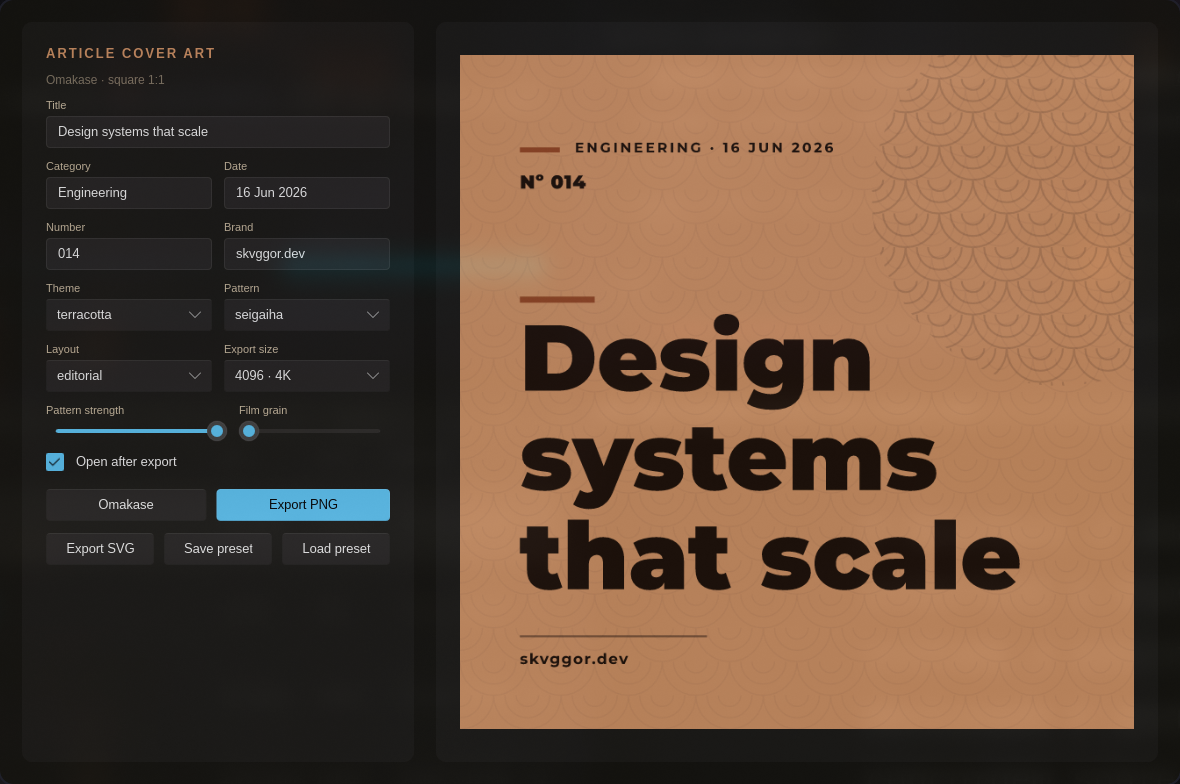
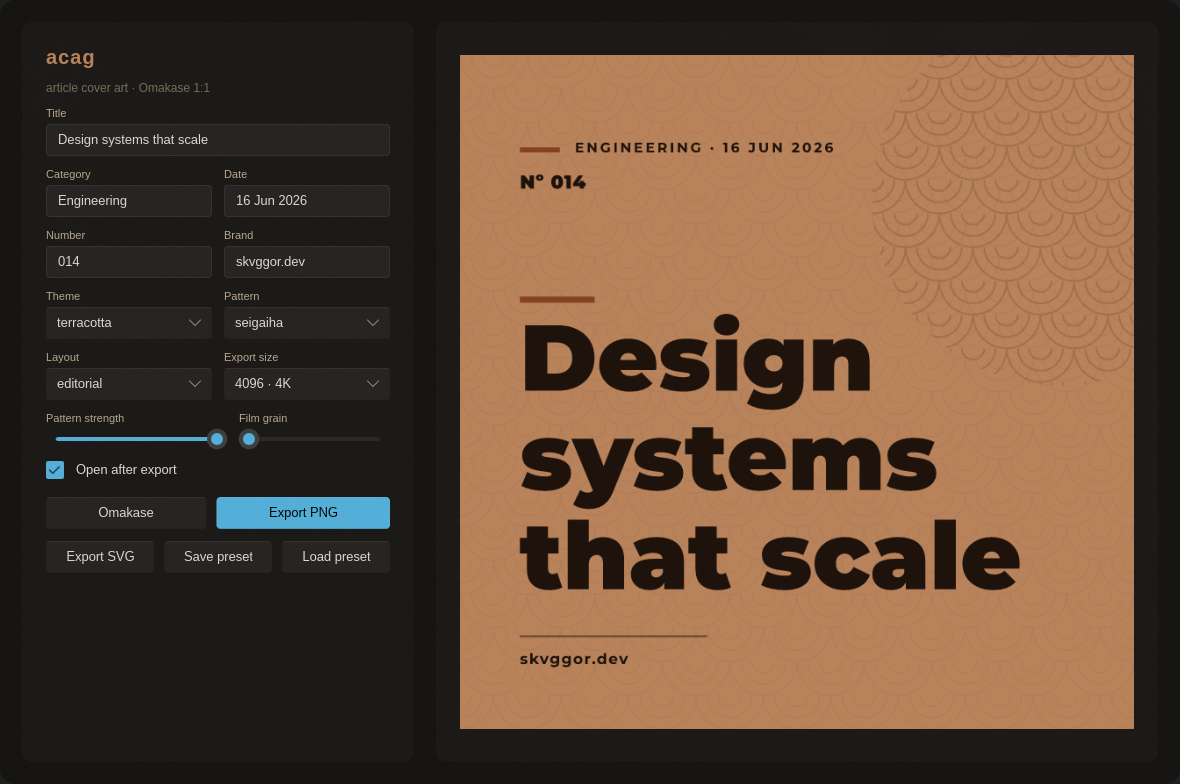
Brand the app as acag
Surface "acag" as the app name in the README heading, the .desktop Name, the
window title and the in-app header, keeping "article cover art generator" as the
descriptive subtitle. Add an acronym note at the end of the README and refresh the
screenshot.

diff --git a/README.md b/README.md
@@ -1,8 +1,10 @@
 <p align="center">
-  <img src="assets/icons/icon-256.png" width="120" alt="article-cover-art-generator icon" />
+  <img src="assets/icons/icon-256.png" width="120" alt="acag icon" />
 </p>
 
-<h1 align="center">article-cover-art-generator</h1>
+<h1 align="center">acag</h1>
+
+<p align="center"><em>article cover art generator</em></p>
 
 <p align="center">
   A native desktop app that generates <strong>1:1 article cover art</strong> in an
@@ -120,3 +122,7 @@ cargo run --example icon     # regenerate the app icon
 ## License
 
 [MIT](LICENSE).
+
+## The name
+
+**acag** is simply **a**rticle **c**over **a**rt **g**enerator.